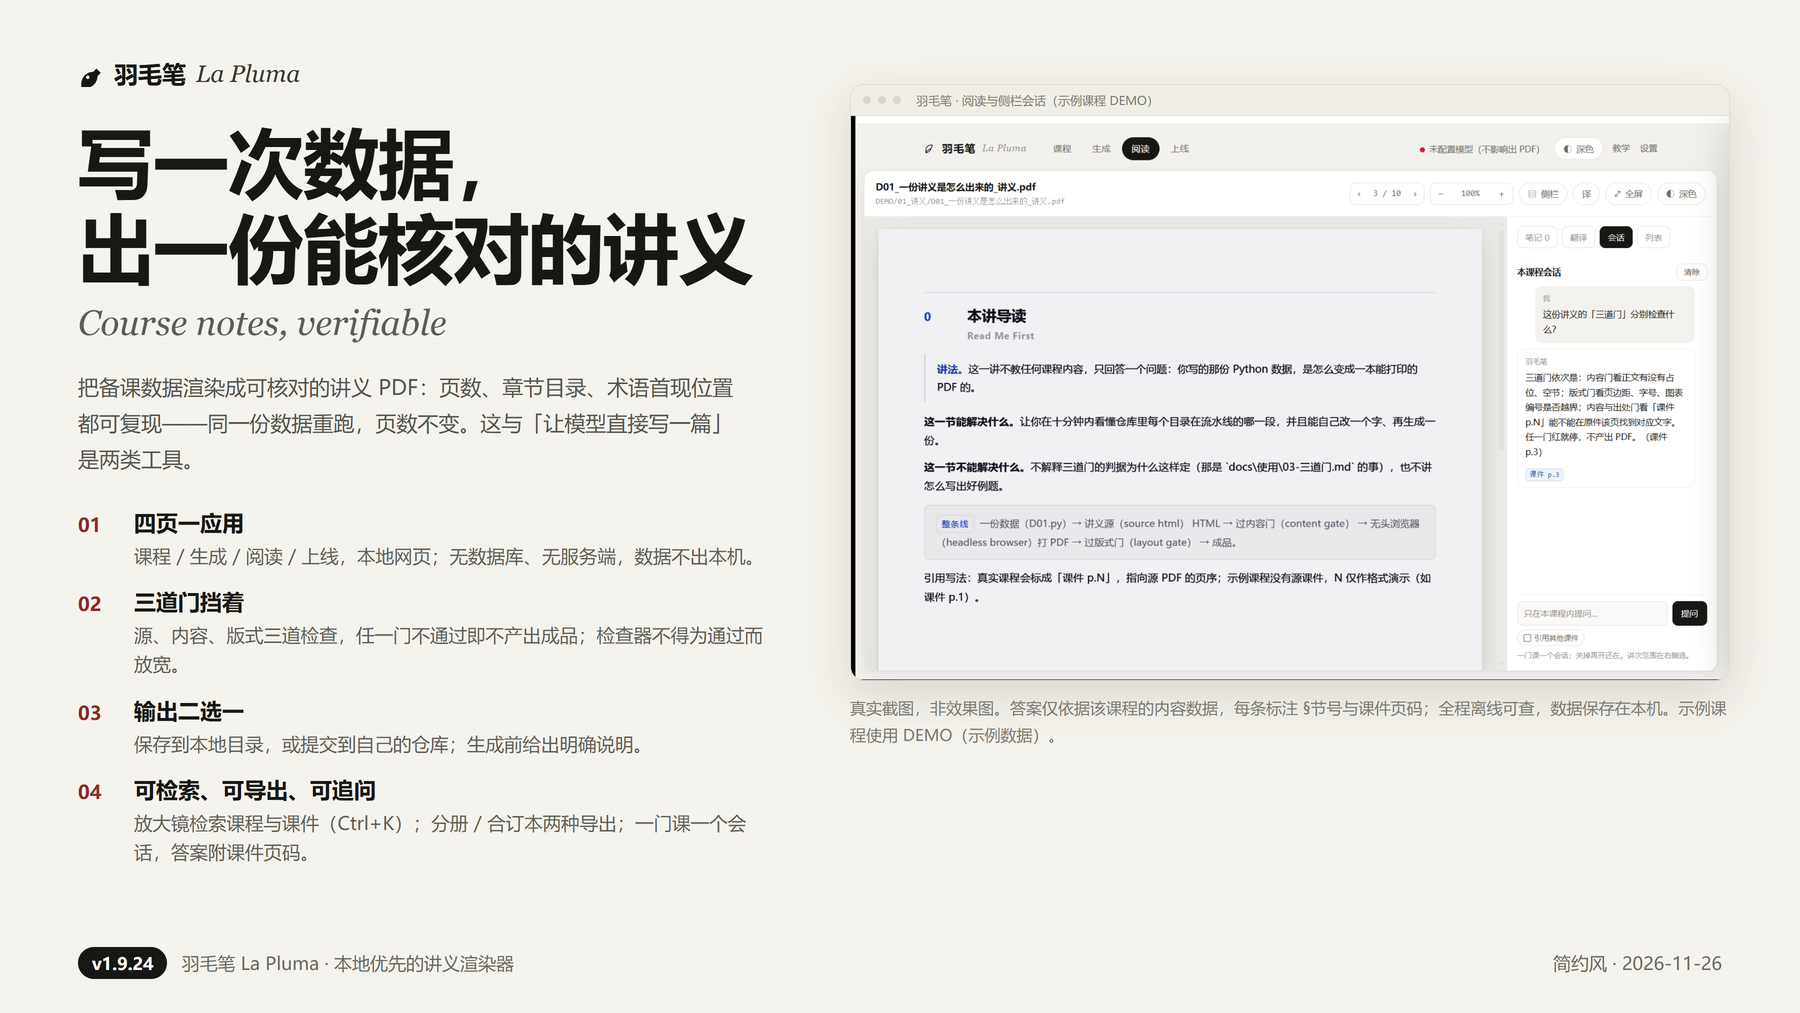
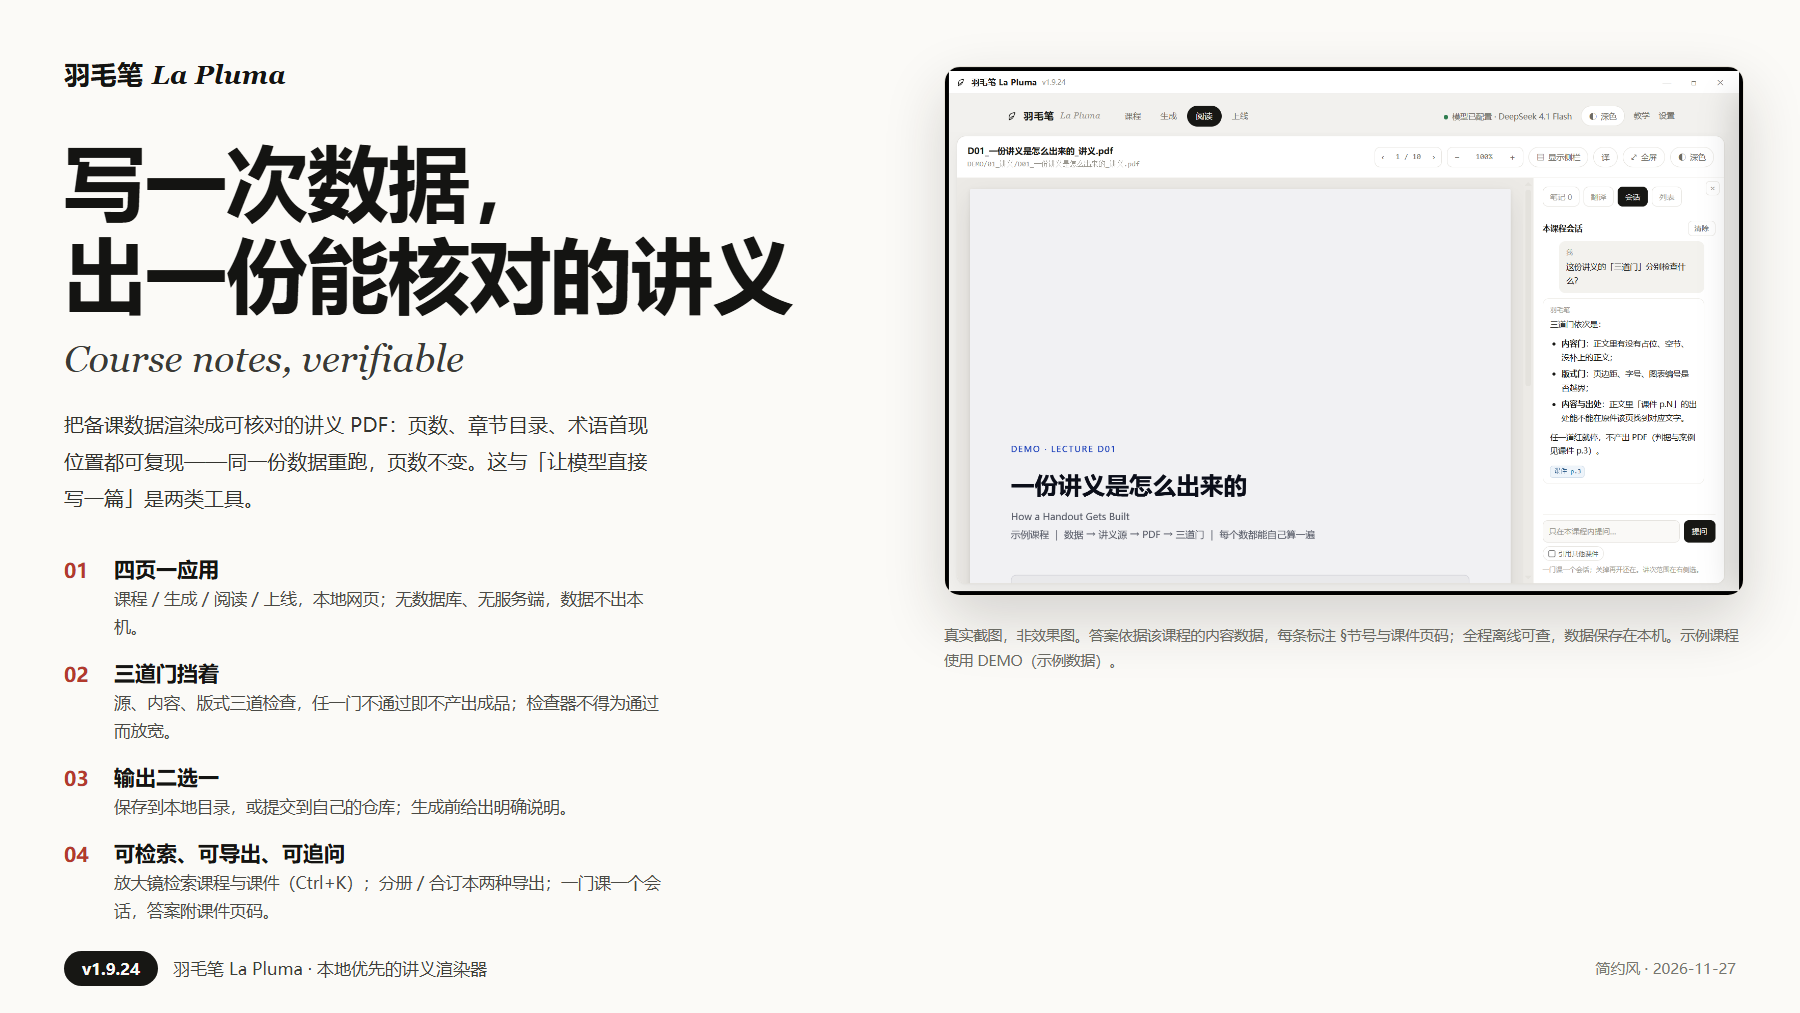
chore(截图): 重拍现役真窗口图、退役 16 张旧图；切页关浮层（R96）[ui-noshow]
重拍：会话/记笔记侧栏/出处片/导出笔记/上线已开/访问码/首次配置/阅读空态-侧栏列表-会话开场白（DEMO 会话种到临时安装）。退役 16 张无引用或重复旧图；历史版本图与设计记录登记 tools\check\ui-shot-exempt.json。README 首页去掉小图标，让 H0 标题排在 H1 介绍图之前；产品介绍图按当前界面重做。R96 切页收浮层，三处标记供 PRTS check-behavior 校验——这一段无可见界面变化，故标 [ui-noshow]。

判据：check-shot-coverage 全绿（已拍 40 / 待补 8）、check-shot-light 0 红 0 黄（53 张）、check-reading-tools 23/23。

diff --git a/ui/index.html b/ui/index.html
@@ -1468,6 +1468,8 @@ function showPage(p){
   document.body.classList.toggle('read-mode', p === 'read');
   if(p !== 'courses' && typeof findOpen === 'function' && FIND.open) findOpen(false);
   if(typeof closeDrawer === 'function') closeDrawer();   // 切导航时抽屉不留着
+  // R96-pageSwitch：切页时把还开着的弹窗一起收掉（只在浮层真的开着时才动，避免打断打开流程）
+  if(typeof closeVeil === 'function' && document.querySelector('#veil.on')) closeVeil();
   document.querySelectorAll('.page').forEach(e=>e.classList.toggle('on', e.id==='page-'+p));
   document.querySelectorAll('#nav a').forEach(a=>a.classList.toggle('on', a.dataset.page===p));
   scrollApp(0);
@@ -4979,13 +4981,14 @@ function closeDrawer(){
 }
 $('#dveil').onclick = closeDrawer;
 // 点遮罩空白关弹窗（点弹窗内容不关：target 不等于 #veil）
-document.addEventListener('click', e => { if(e.target === $('#veil')) closeVeil(); });
+document.addEventListener('click', e => { if(e.target === $('#veil')) closeVeil(); });   // R96-backdrop
 // Esc：满屏浮层先退（不关弹窗、不关抽屉）；搜索面板自己处理（先清空再一次收起），剩下的先关弹窗、再关抽屉
 document.addEventListener('keydown', e => {
   if(e.key !== 'Escape') return;
   if(FIND.open) return;
   const card = readCard();
   if(card && card.classList.contains('fs')){ e.preventDefault(); setFullscreen(false); return; }
+  // R96-escape
   if($('#veil').classList.contains('on')){ e.preventDefault(); closeVeil(); return; }
   if($('#drawer').classList.contains('on')){ e.preventDefault(); closeDrawer(); }
 });

diff --git a/tools/check/check-ui-preview.py b/tools/check/check-ui-preview.py
@@ -180,12 +180,26 @@ def run(root):
 
     # —— D：已实现截图忘了重拍（只在「真的改了 index.html」时才比，否则改服务代码会误报）
     if page_changed and os.path.isdir(asset_dir) and t_ui:
-        stale = []
+        # 2026-11-27：加显式豁免清单（历史版本图 / docs\\预览 的设计记录）。
+        # 不禁用 D：新图没登记照样黄；豁免的条数也打出来，避免「看不见就当没有」。
+        exempt = {}
+        try:
+            with open(os.path.join(root, 'tools', 'check', 'ui-shot-exempt.json'), encoding='utf-8') as fh:
+                exempt = {x.get('name'): x.get('why', '') for x in json.load(fh).get('files', [])}
+        except Exception:  # noqa: BLE001
+            exempt = {}
+        stale, skipped = [], []
         for name in sorted(os.listdir(asset_dir)):
             if name.startswith('界面-') and name.lower().endswith('.png'):
                 t = last_ts(root, os.path.join(ASSET, name))
                 if t and t < t_ui:
-                    stale.append(name)
+                    if name in exempt:
+                        skipped.append(name)
+                    else:
+                        stale.append(name)
+        if skipped:
+            note.append('D 豁免 %d 张（%s）：历史版本 / 设计记录，见 tools\\check\\ui-shot-exempt.json'
+                        % (len(skipped), '、'.join(skipped)))
         if stale:
             yel.append('D 已实现界面截图比 ui/ 旧（%s）：重拍一张放 docs\\资产'
                        % '、'.join(stale))

diff --git a/docs/资产/截图覆盖.md b/docs/资产/截图覆盖.md
@@ -17,7 +17,7 @@
 | L01 浏览课程列表 | 界面-主页.png | 2026-11-26（真窗口） |
 | L02 收藏课程 | 界面-收藏.png | 2026-11-26（真窗口） |
 | L03 搜索课程与课件 | 界面-搜索.png | 2026-11-26（真窗口） |
-| L04 打开课程抽屉看成品与原件 | 界面-抽屉.png | 2026-11-26（真窗口） |
+| L04 打开课程抽屉看成品与原件 | 界面-文件列表.png | 2026-11-27（真窗口） |
 | L05 深色 / 浅色主题 | 界面-主页-深色.png | 2026-11-26（真窗口） |
 | L36 自绘标题栏与窗口缩放 | 界面-主页.png | 2026-11-26（真窗口） |
 
@@ -26,7 +26,7 @@
 | 功能 | 截图 | 拍于 |
 |:--|:--|:--|
 | L06 导入课件（按钮态） | 界面-生成.png | 2026-11-26（真窗口） |
-| L07 导入即建占位讲次 | 界面-生成-语言档-全中.png | 2026-11-19（旧，界面已改） |
+| L07 导入即建占位讲次 | 界面-生成.png | 2026-11-27（真窗口；占位讲次本体见待补 L12） |
 | L09 新建课程 | 界面-新建课程.png | 2026-11-23 |
 | L10 批量生成单本讲义（队列中） | 界面-生成-队列中.png | 2026-11-23 |
 | L11 讲义语言两档 | 界面-生成.png | 2026-11-26（真窗口） |
@@ -36,33 +36,33 @@
 | L18 推送到仓库（选项） | 界面-生成.png | 2026-11-26（真窗口） |
 | L28 导出单份讲义 | 界面-导出.png | 2026-11-26（真窗口） |
 | L29 课程导出（勾选 / 分册 / 合订本） | 界面-导出.png | 2026-11-26（真窗口） |
-| L30 把对话或笔记追加到讲义末尾 | 界面-导出笔记.png | 2026-11-26（真窗口） |
+| L30 把对话或笔记追加到讲义末尾 | 界面-导出笔记.png | 2026-11-27（真窗口） |
 
 ### --- 阅读与侧栏（14 张）---
 
 | 功能 | 截图 | 拍于 |
 |:--|:--|:--|
-| L16 出处可核、可跳 | 界面-出处可点-20261123.png | 2026-11-22（旧） |
+| L16 出处可核、可跳 | 界面-出处可点-20261123.png | 2026-11-27（真窗口；出处片「课件 p.3」在答案下） |
 | L19 应用内阅读 PDF | 界面-阅读.png | 2026-11-26（真窗口） |
 | L19b 阅读四角侧栏 / 铺满高度 / 侧栏宽度与窗口加宽 / 全屏出血位 | 界面-阅读-四角侧栏.png | 2026-11-26（真窗口） |
 | L20 深色下 PDF 反相、位图保色 | 界面-阅读-深色.png | 2026-11-26（真窗口） |
 | L21 全屏阅读 | 界面-全屏阅读.png | 2026-11-26（真窗口） |
-| L22 边读边记笔记 | 界面-记笔记-侧栏-20261122.png | 2026-11-21（旧） |
-| L23 选中原文引用记笔记 | 界面-笔记高亮-20261123.png | 2026-11-21（旧） |
+| L22 边读边记笔记 | 界面-记笔记-侧栏-20261122.png | 2026-11-27（真窗口） |
+| L23 选中原文引用记笔记 | 界面-笔记高亮-20261123.png | 2026-11-21（旧图；界面自 11-23 未改，见豁免清单） |
 | L24 翻译当前页 | 界面-翻译-结果.png | 2026-11-23 |
 | L25 课程专属会话 | 界面-会话.png | 2026-11-26（真窗口） |
 | L26 提问并核对出处 | 界面-会话.png | 2026-11-26（真窗口） |
-| L45 阅读侧栏会话页签 | 界面-阅读-会话开场白.png | 2026-11-26（真窗口） |
-| L47 阅读空态只留最近阅读 | 界面-阅读-空态-最近阅读.png | 2026-11-26（真窗口） |
-| L48 阅读侧栏「列表」同课程切换成品 / 原件 | 界面-阅读-侧栏列表.png | 2026-11-26（真窗口） |
-| L49 阅读侧栏会话开场白与示例 | 界面-阅读-会话开场白.png | 2026-11-26（真窗口） |
+| L45 阅读侧栏会话页签 | 界面-阅读-会话开场白.png | 2026-11-27（真窗口） |
+| L47 阅读空态只留最近阅读 | 界面-阅读-空态-最近阅读.png | 2026-11-27（真窗口） |
+| L48 阅读侧栏「列表」同课程切换成品 / 原件 | 界面-阅读-侧栏列表.png | 2026-11-27（真窗口） |
+| L49 阅读侧栏会话开场白与示例 | 界面-阅读-会话开场白.png | 2026-11-27（真窗口） |
 
 ### --- 上线与手机（2 张）---
 
 | 功能 | 截图 | 拍于 |
 |:--|:--|:--|
-| L31 一键上线 / 关闭上线 | 界面-上线-一键已开.png | 2026-11-26（真窗口；地址与访问码已换成示例值） |
-| L32 平板端访问码登录 | 界面-访问码.png | 2026-11-19（旧） |
+| L31 一键上线 / 关闭上线 | 界面-上线-一键已开.png | 2026-11-27（真窗口；地址与访问码已换成示例值） |
+| L32 平板端访问码登录 | 界面-访问码.png | 2026-11-27（真窗口；访问码是示例值） |
 
 ### --- 设置与安装（5 张）---
 
@@ -72,7 +72,7 @@
 | L33 首次配置向导 | 界面-首次配置.png | 2026-11-23 |
 | L34 设置 | 界面-设置.png | 2026-11-23 |
 | L35 检查并应用更新 | 界面-更新卡-v1.9.18.png | 2026-11-24（真窗口；1.9.17 → 1.9.18） |
-| L27 余额不足人话弹窗 | 界面-余额不足.png | 2026-11-19（旧） |
+| L27 余额不足人话弹窗 | 界面-余额不足.png | 2026-11-19（旧图；要真实 402 才能重拍，弹窗自 11-19 未改） |
 
 ### --- 删除与课程库（3 张）---
 

diff --git a/README.md b/README.md
@@ -1,7 +1,5 @@
 <div align="center">
 
-<img src="docs/资产/lapluma-icon-256.png" alt="羽毛笔 La Pluma" width="96">
-
 # 羽毛笔 La Pluma
 
 **把备课数据渲染成可核对、可复现的讲义 PDF**（Windows 文件夹版，双击启动；需要 Python 3.12）
